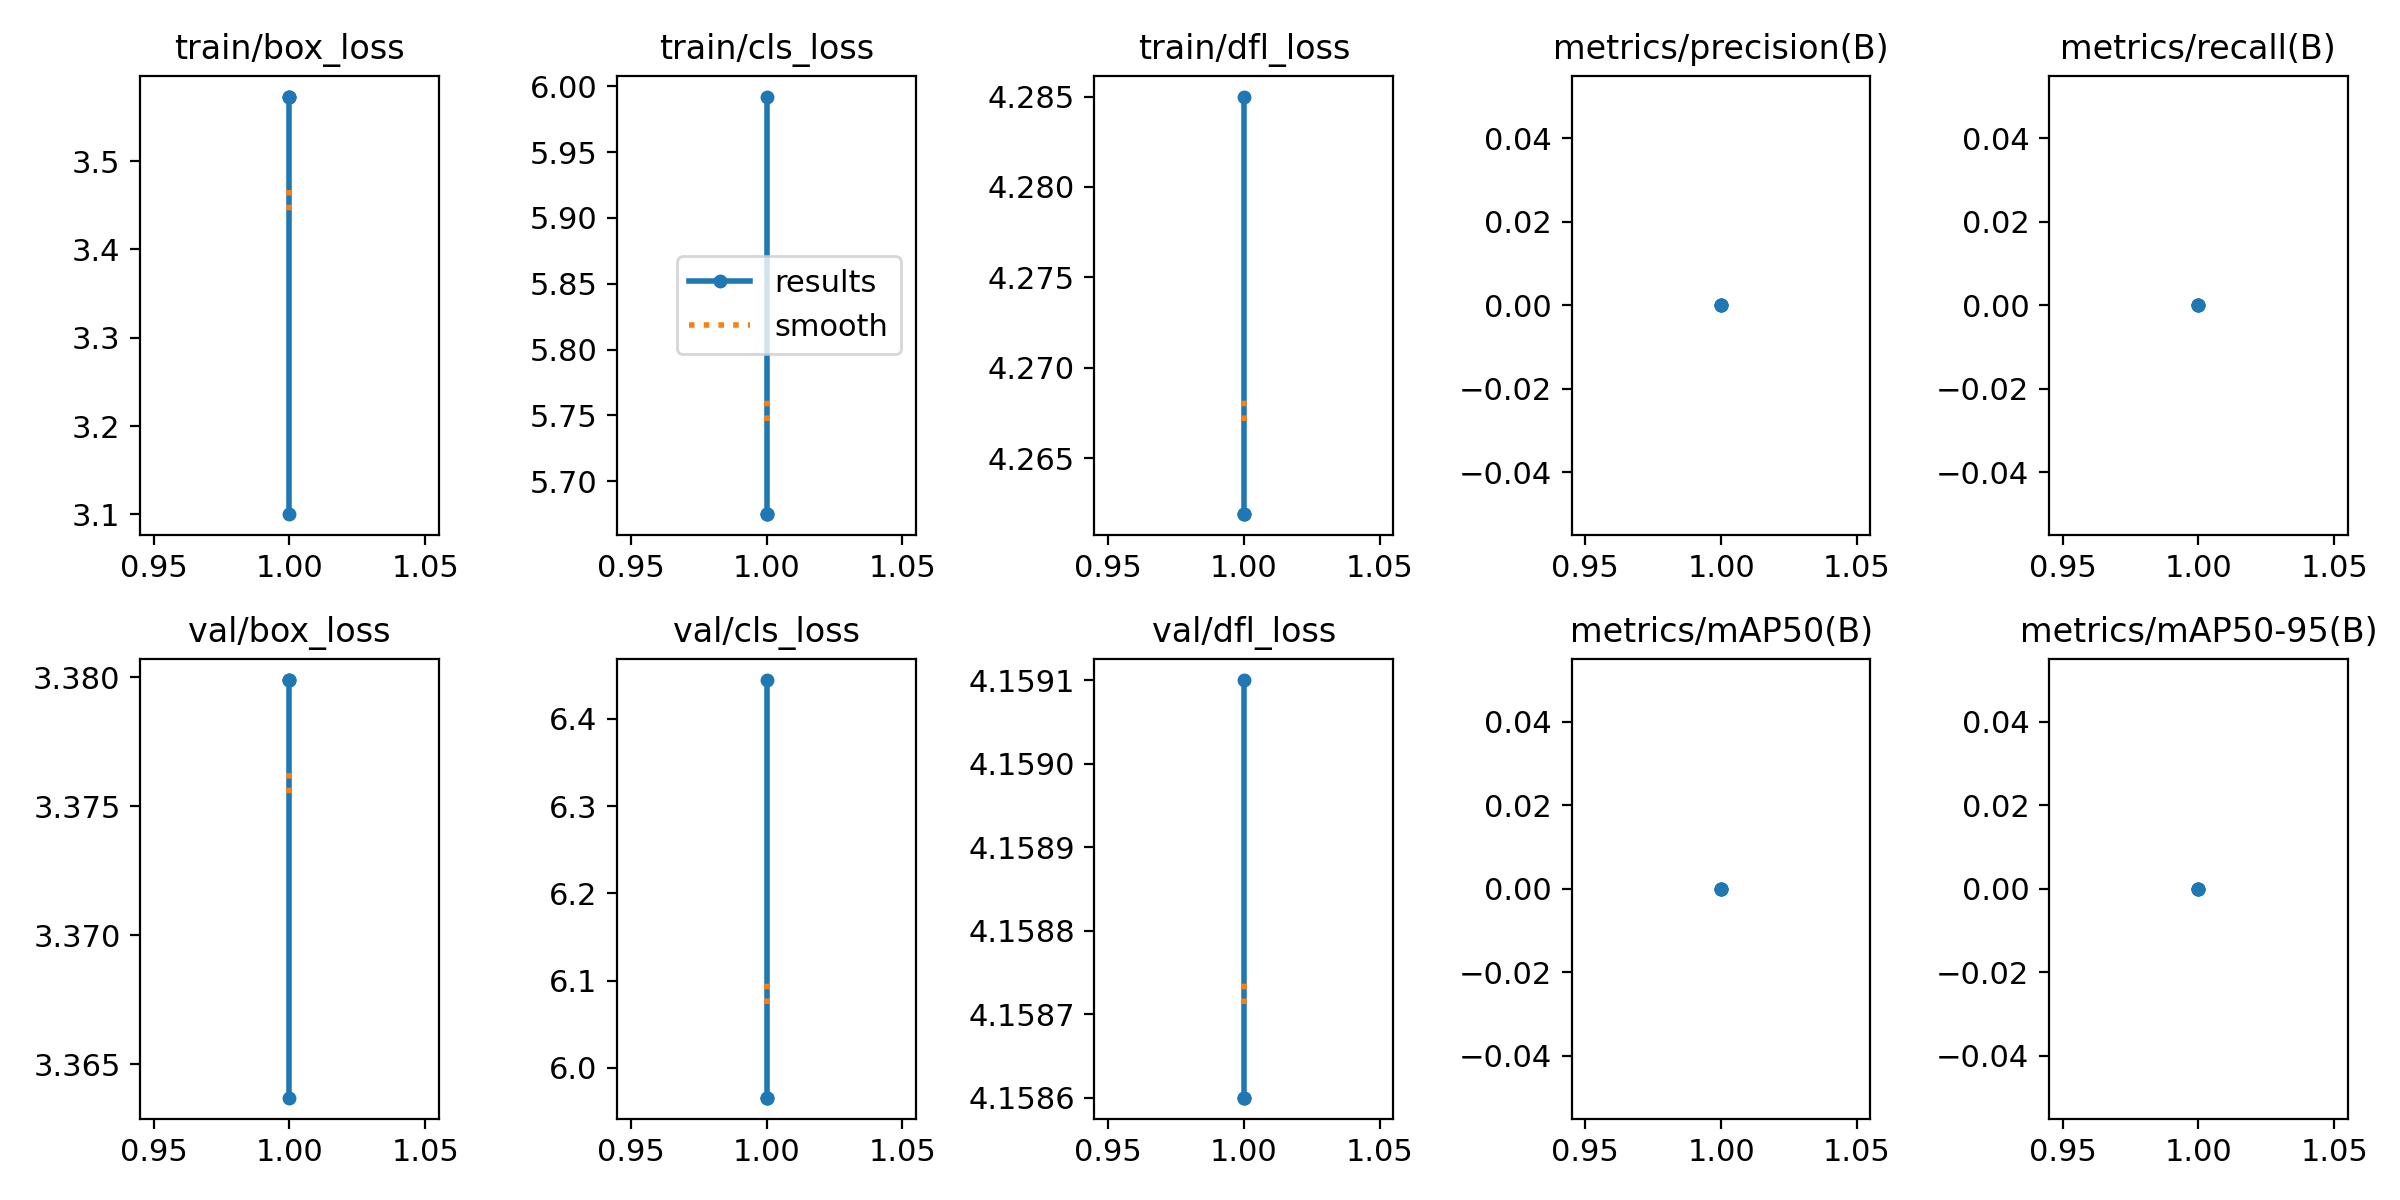
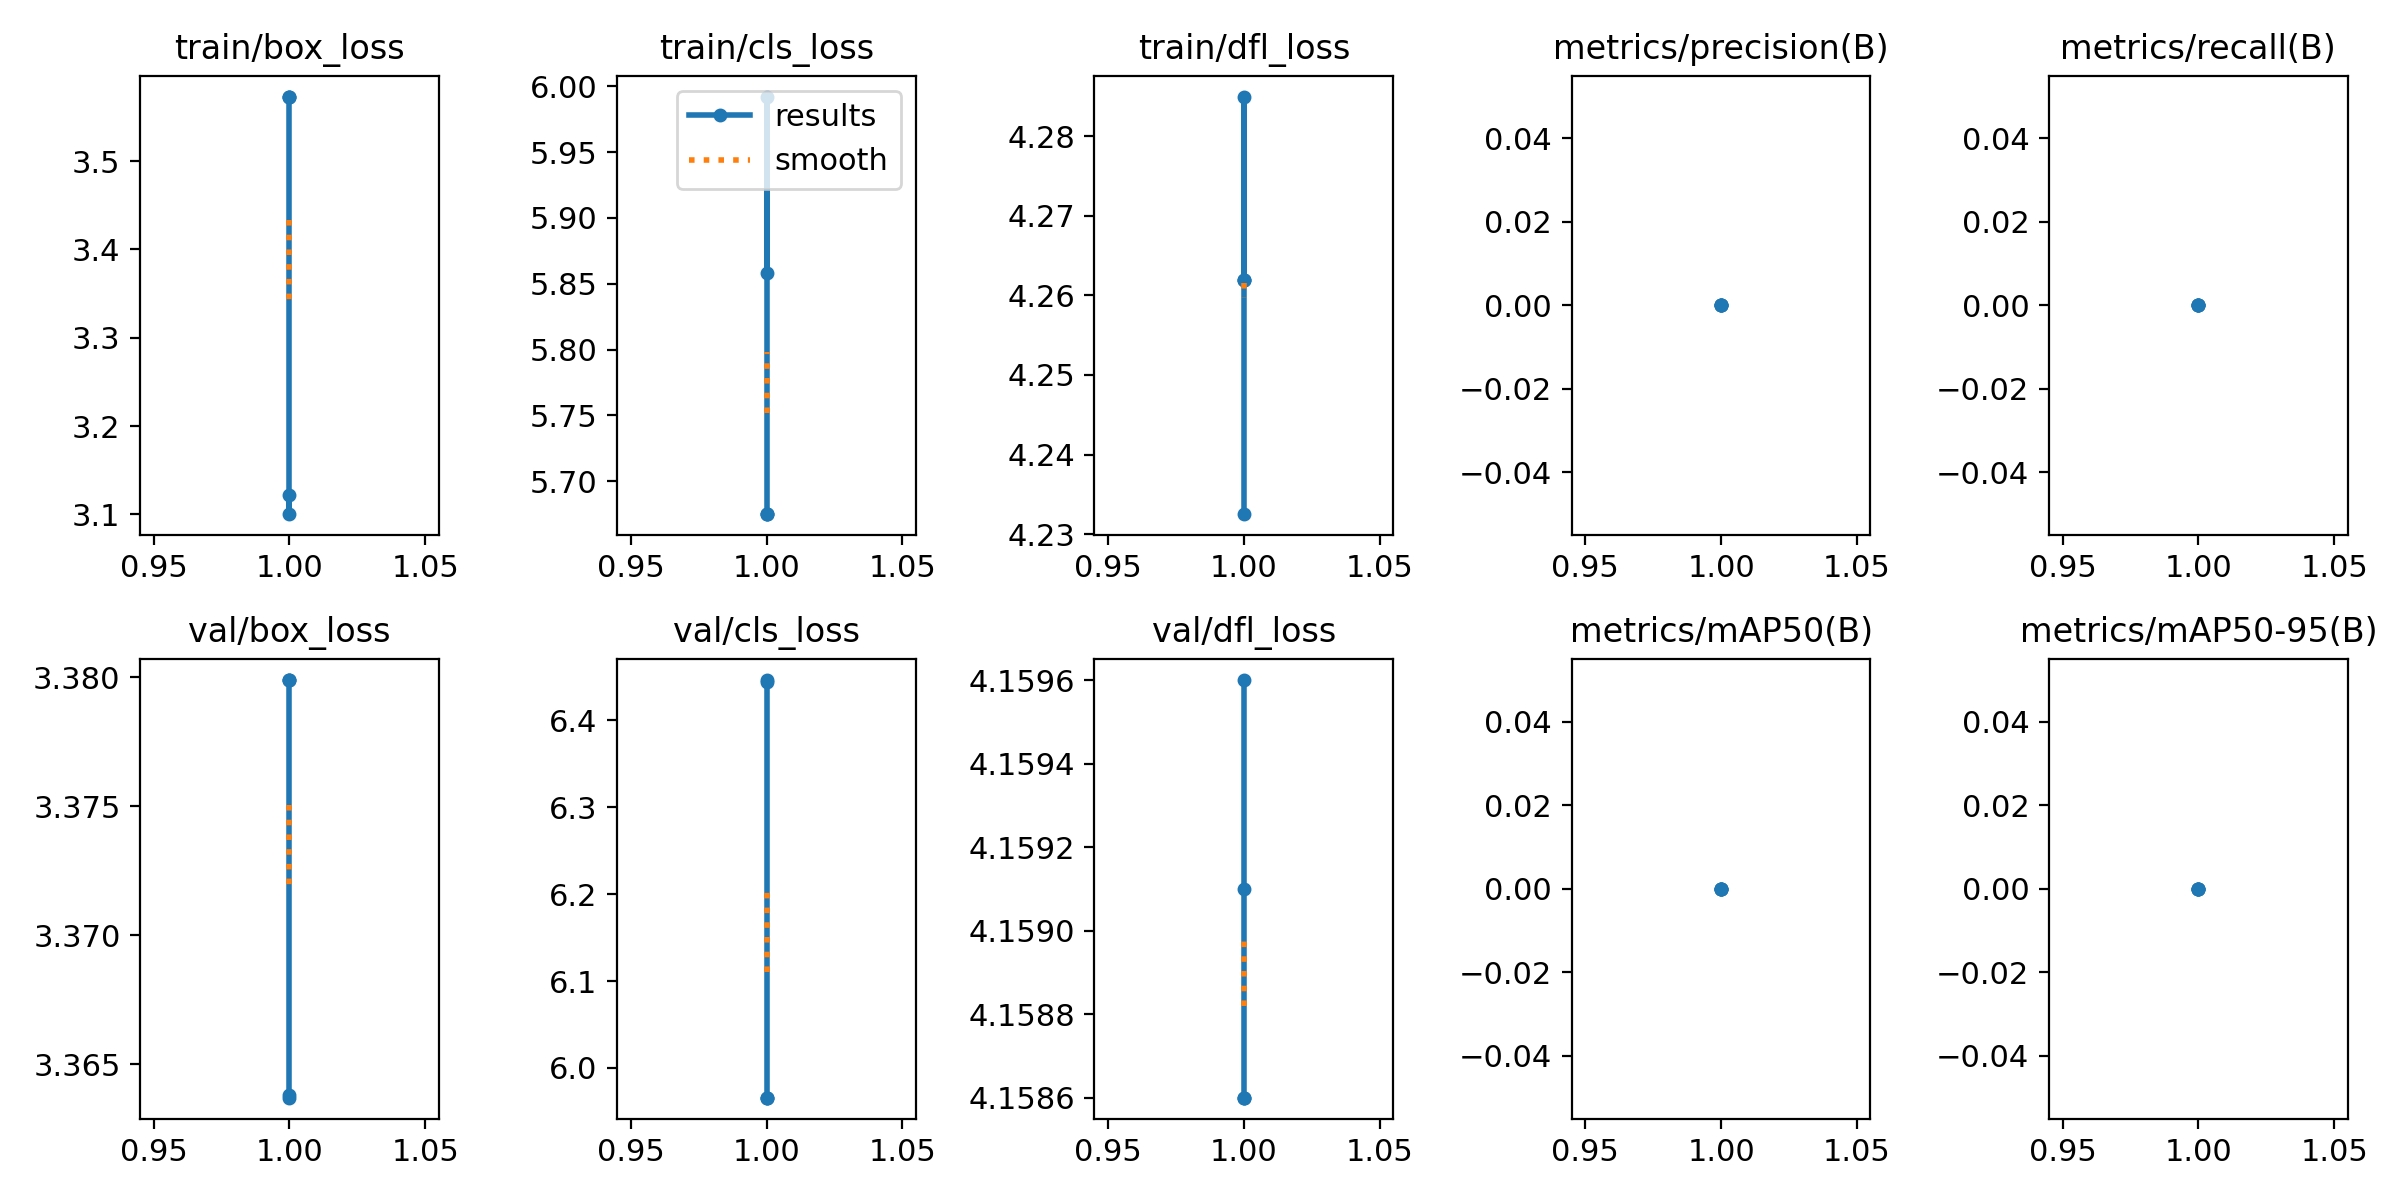
first commit

diff --git a/ultralytics/nn/modules/block.py b/ultralytics/nn/modules/block.py
@@ -1129,4 +1129,21 @@ class EMA(nn.Module):
         x22 = x1.reshape(b * self.groups, c // self.groups, -1)  # b*g, c//g, hw
         
         weights = (torch.matmul(x11, x12) + torch.matmul(x21, x22)).reshape(b * self.groups, 1, h, w)
-        return (group_x * weights.sigmoid()).reshape(b, c, h, w)    
+        return (group_x * weights.sigmoid()).reshape(b, c, h, w)  
+
+class SimAM(nn.Module):
+    """
+    SimAM: Simple, Parameter-Free Attention Module
+    """
+    # Sử dụng *args và **kwargs để "hứng" mọi tham số YOLO tự động truyền vào mà không bị báo lỗi
+    def __init__(self, *args, e_lambda=1e-4, **kwargs):
+        super().__init__()
+        self.activaton = nn.Sigmoid()
+        self.e_lambda = e_lambda
+
+    def forward(self, x):
+        b, c, h, w = x.size()
+        n = w * h - 1
+        x_minus_mu_square = (x - x.mean(dim=[2, 3], keepdim=True)).pow(2)
+        y = x_minus_mu_square / (4 * (x_minus_mu_square.sum(dim=[2, 3], keepdim=True) / n + self.e_lambda)) + 0.5
+        return x * self.activaton(y)

diff --git a/test_model.py b/test_model.py
@@ -4,7 +4,7 @@ from ultralytics import YOLO
 
 def test_custom_yolo():
     # Tên file YAML mà bạn đã tạo ở bước trước
-    yaml_path = 'yolo8_goldacsim_fdm_p2.yaml'
+    yaml_path = 'yolo8_goldacsim_fdm_p2_simam.yaml'
     
     print("="*60)
     print("🚀 BẮT ĐẦU TEST KIẾN TRÚC FDM-YOLO x GOLDACSIM")

diff --git a/ultralytics/nn/modules/__init__.py b/ultralytics/nn/modules/__init__.py
@@ -56,6 +56,7 @@ from .block import (
     SCDown,
     Fast_C2f,
     EMA,
+    SimAM,
 )
 from .conv import (
     SimFusion_4in,
@@ -163,4 +164,5 @@ __all__ = (
     "SCDown",
     "Fast_C2f",
     "EMA",
+    "SimAM",
 )

diff --git a/ultralytics/nn/tasks.py b/ultralytics/nn/tasks.py
@@ -66,6 +66,7 @@ from ultralytics.nn.modules import (
     v10Detect,
     Fast_C2f,
     EMA,
+    SimAM,
 )
 from ultralytics.utils import DEFAULT_CFG_DICT, DEFAULT_CFG_KEYS, LOGGER, colorstr, emojis, yaml_load
 from ultralytics.utils.checks import check_requirements, check_suffix, check_yaml